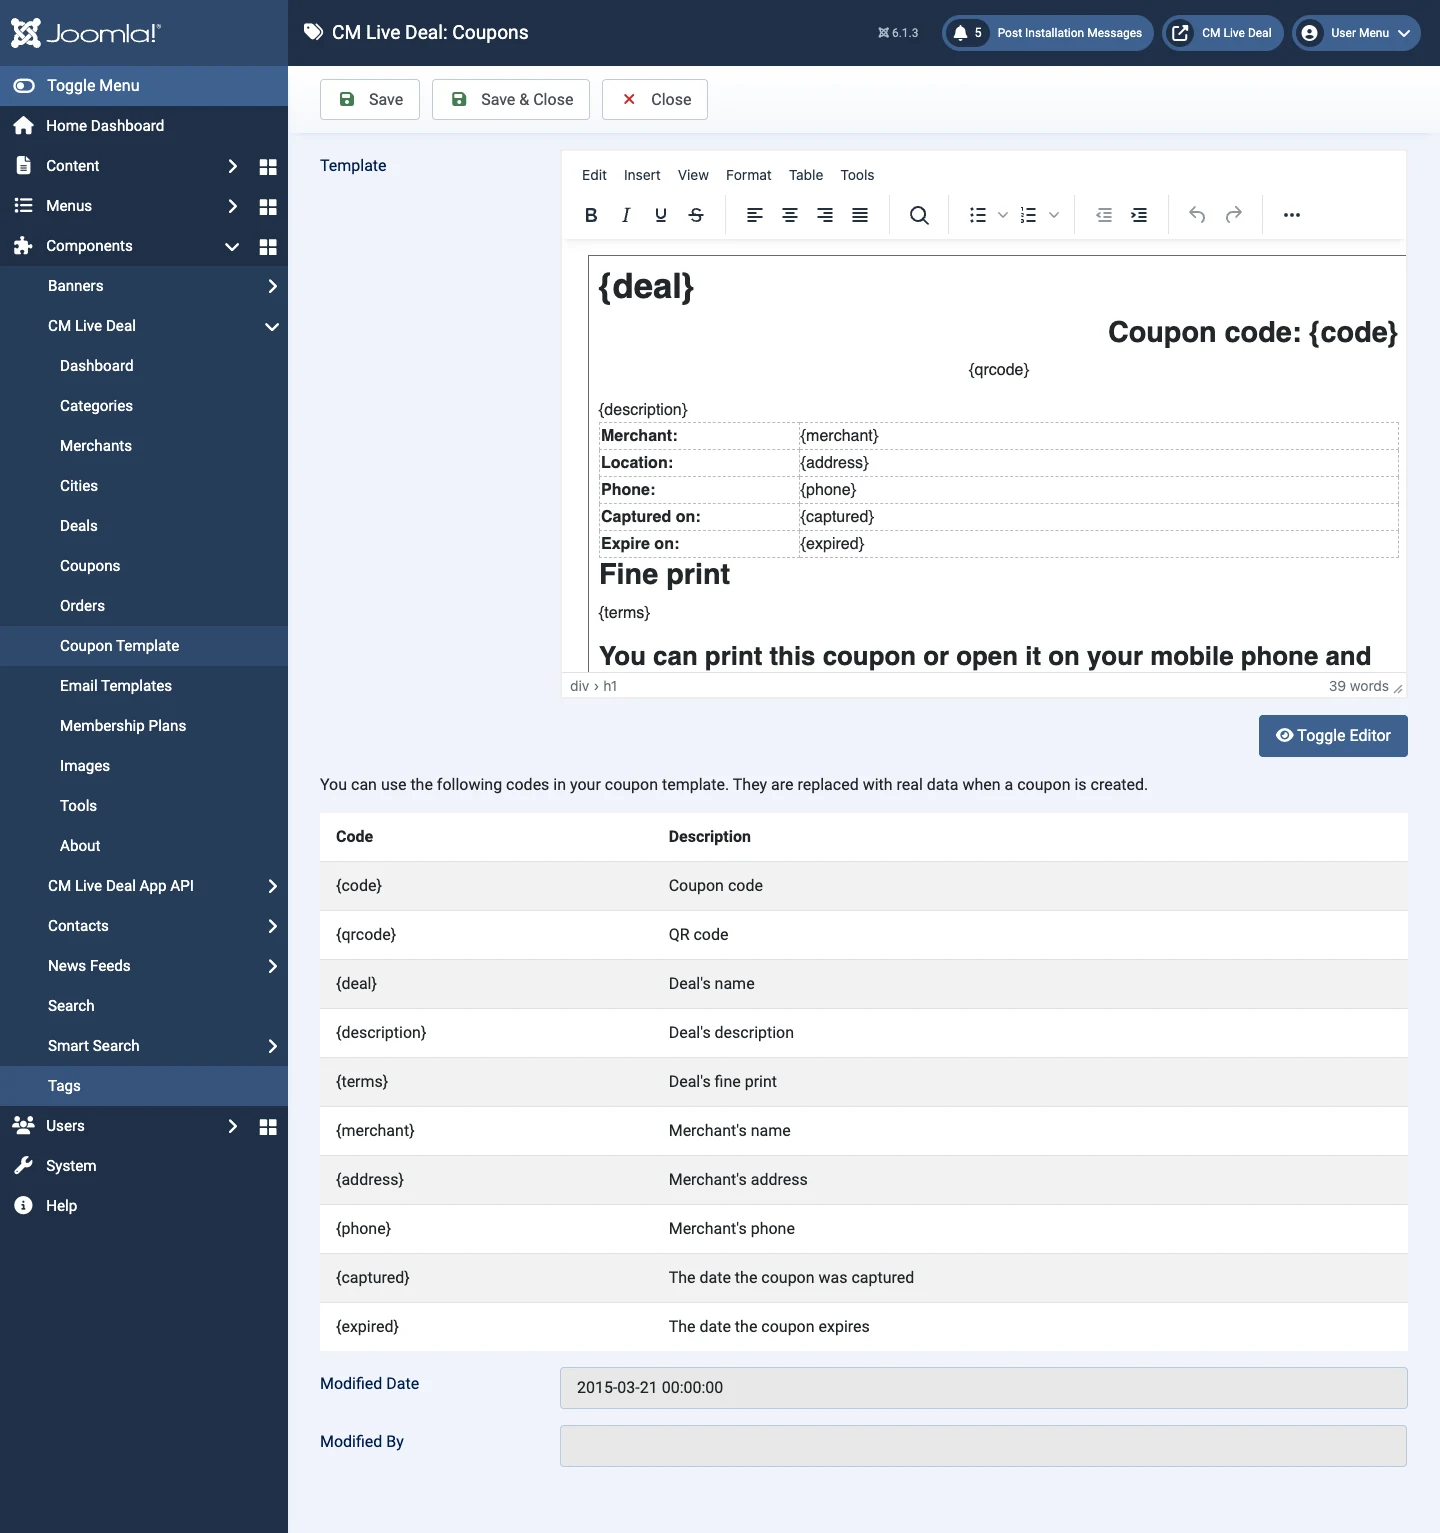
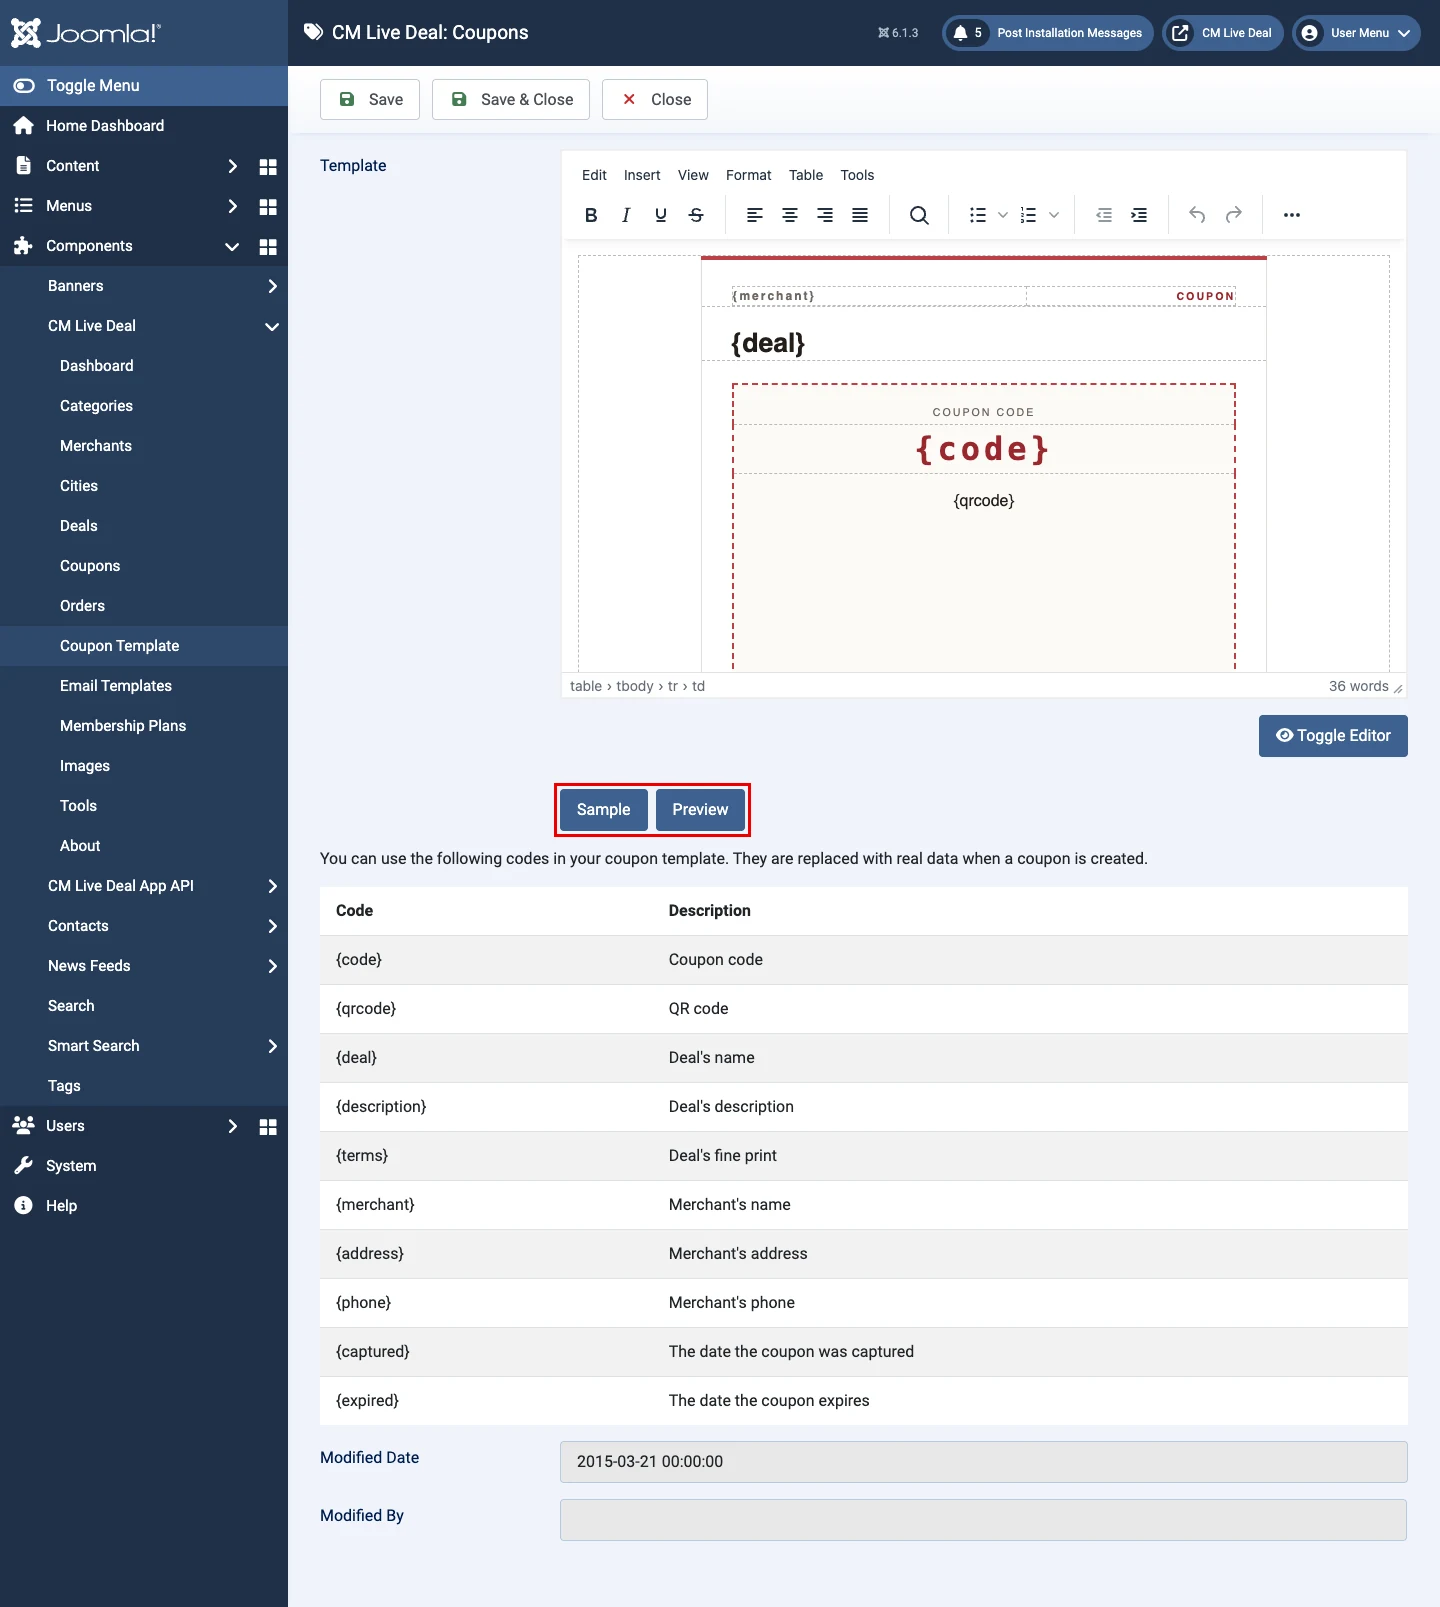
Add Sample and Preview to email and coupon templates and ship designed defaults

diff --git a/content/coupontemplate/_index.md b/content/coupontemplate/_index.md
@@ -12,6 +12,50 @@ In the form, you can use HTML and CSS to design your coupon.
 
 ![/images/coupon_template.webp](/images/coupon_template.webp)
 
+The coupon template comes with a ready-made design: the deal's name, the coupon code and the QR code in a large box, then the merchant, the dates, the description and the fine print. You can use it as it is, change the words, or write your own.
+
+The same template is used in three places, so a design must work in all of them:
+
+* The coupon page on your site, when **Coupon format** is `HTML`.
+* The PDF coupon, when **Coupon format** is `PDF`. See [PDF coupon](/pdf-coupon/).
+* The PDF attached to the order email, when **Attach PDF coupon to order confirmation email** is on.
+
+When you write your own design:
+
+* Use inline `style` attributes.
+* Lay the coupon out with tables. The PDF library does not support flexbox or CSS grid.
+* Leave room for the QR code. The PDF library draws the QR code without taking up any space, so give the table cell around `{qrcode}` a height. The sample does this for you.
+
+## Start from the sample
+
+Click **Sample** under the editor. A window shows the ready-made design as HTML.
+
+![/images/coupon-template-4-0-sample.webp](/images/coupon-template-4-0-sample.webp)
+
+1. Click **Toggle Editor** first, so the editor shows HTML. If you paste into the editor while it shows the design, it can rewrite the HTML and break the design.
+2. Click **Copy** in the window, then close it.
+3. Paste into the editor, replacing what was there, and click `Save`.
+
+The sample leaves room for a QR code of the size in **QR code size (PDF coupon)**. If you change that size, copy the sample again. At size `5` the QR code fills the whole coupon box, so use a smaller size.
+
+This is how you get the new design back after you changed the template, or after an upgrade from CM Live Deal 3 kept your old template.
+
+## Preview
+
+Click **Preview** under the editor. A new browser tab shows the coupon as it is in the editor now. You do not have to save first.
+
+If the [mPDF library](/pdf-coupon/) is installed, Preview shows a PDF file, the way the PDF coupon looks. If not, it shows a web page, the way the HTML coupon looks.
+
+![/images/coupon-template-4-0-preview.webp](/images/coupon-template-4-0-preview.webp)
+
+The tags are filled in with example details, such as the merchant `Corner Bistro` and the coupon code `KXQRT`. If the editor is empty, Preview shows the sample.
+
+Preview needs the same permission as editing the template: **Edit** on CM Live Deal.
+
+To see a PDF coupon with the details of a real deal, use **Sample PDF Coupon Generator** in `Components > CM Live Deal > Tools`.
+
+## Tags
+
 To display the information of deal on your coupon, you can use the following tags (shortcodes):
 
 *   **{code}**: Coupon's code.

diff --git a/content/install-upgrade/upgrade.md b/content/install-upgrade/upgrade.md
@@ -47,6 +47,7 @@ See [Payment plugins](/configuration/payment-plugins/) for each setting.
 * Every existing deal runs from its start time to its end time, as before. It gets no weekly schedule.
 * Two new email templates are added, for deals and coupons that expire soon. See [Email templates](/email-templates/) and [Scheduled tasks](/scheduled-tasks/).
 * If you never changed the order email template, it gets the new design. If you changed it, it is kept as it is. To use the new design, open the template and click **Sample**. See [Start from the sample](/email-templates/#start-from-the-sample).
+* The same goes for the coupon template: if you never changed it, it gets the new design. See [Coupon template](/coupontemplate/#start-from-the-sample).
 * Some country names on saved orders are updated. For example, `Czech Republic` becomes `Czechia`, `Turkey` becomes `Türkiye`, `Swaziland` becomes `Eswatini` and `Scotland` becomes `United Kingdom`. `Netherlands Antilles`, `West Indies` and `Yugoslavia` are no longer in the list, but orders that have them keep them.
 * If you uploaded the GeoLite2 City database, it keeps working. It stays at the same path. See [Get GeoLite2 City database](/cm-live-deal-search-module/get-geolite2-city-database/).
 
